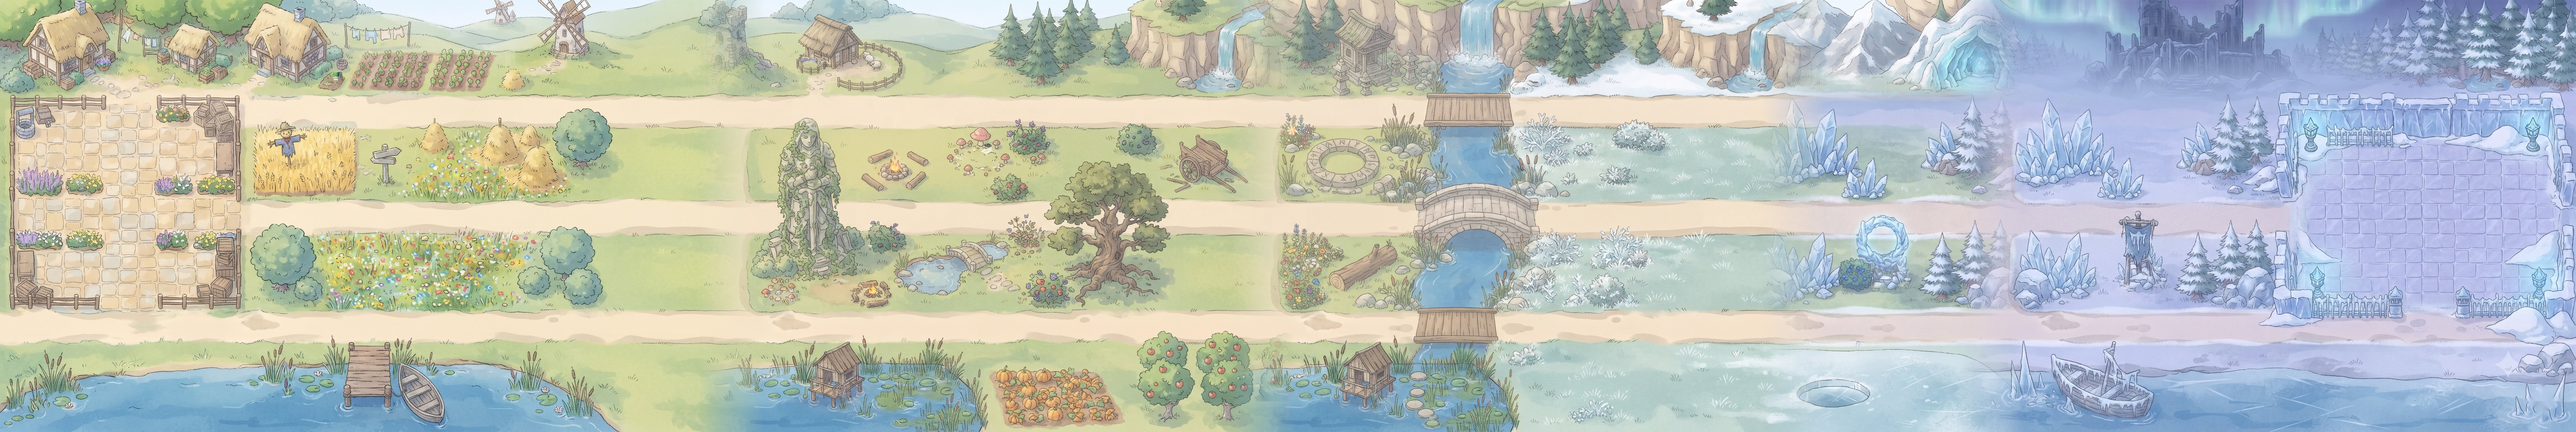
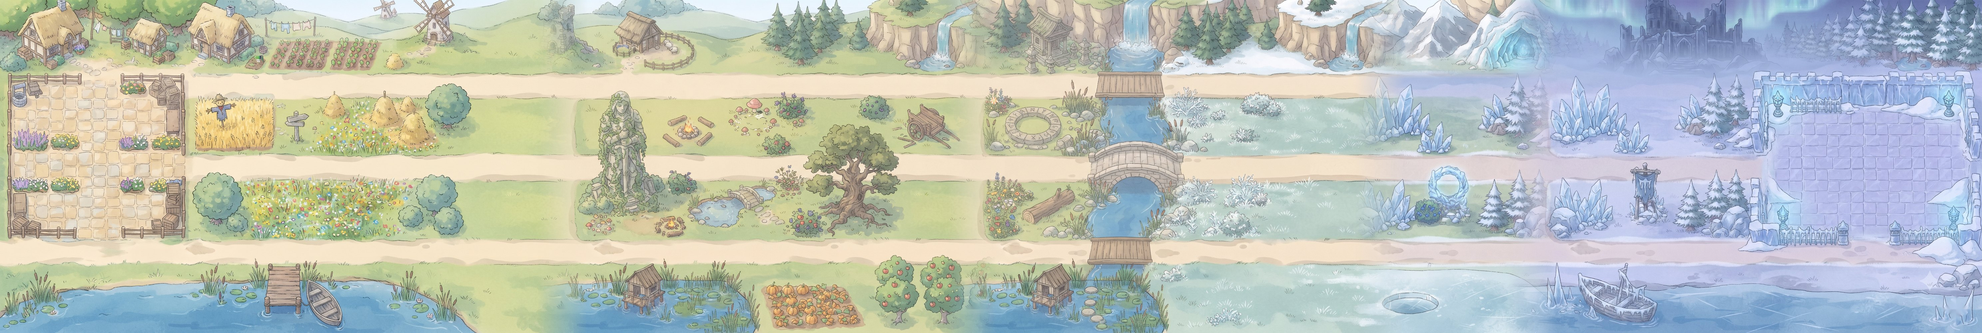
sprout v4.9: 맵을 고른 것 하나만 불러오고 나머지는 비움(휴대폰 메모리 부족으로 화면 깨짐 수정), 맵 크기 조정
Claude-Session: https://claude.ai/code/session_01D8ERGz5r4FPkuXoKDYhqRw

diff --git a/sprout/index.html b/sprout/index.html
@@ -3,7 +3,7 @@
 <head>
 <meta charset="utf-8">
 <meta name="viewport" content="width=device-width,initial-scale=1,viewport-fit=cover,user-scalable=no">
-<title>새싹 원정대 v4.8</title>
+<title>새싹 원정대 v4.9</title>
 <meta name="theme-color" content="#2f4a2c">
 <style>
 :root{--ink:#3a2f22;--cream:#fbf5e6}
@@ -67,11 +67,14 @@ addEventListener('resize',fit);fit();
 /* ---------- 이미지 ---------- */
 const IMG={};const NAMES=['sprout','hedgehog','fox','bunny','owl','frog','sheep','baker','sprite_e0','sprite_e1','sprite_e2','sprite_e3','boss','bg_forest','p_idle','p_run','p_swing','p_jump','p_cast','fx_leaf','fox_idle','fox_shoot','bunny_idle','bunny_heal','hedgehog_idle','hedgehog_atk','sheep_idle','sheep_atk','ground','plat','bg_village','bg_marsh','m_e0','m_e1','m_e2','m_e3','boss2','it_bread','it_clover','it_mush','it_star','it_twig','it_seed','it_chest','it_jar','owl_idle','owl_cast','frog_idle','frog_play','baker','rival','thief','castle_me','castle_foe','fg1','fg2','fg3','vfx_slash','vfx_heal','vfx_hit','vfx_lvup','vfx_star','vfx_leaf','fox_w1','fox_w2','fox_w3','fox_a','sheep_w1','sheep_w2','sheep_w3','sheep_a','bunny_w1','bunny_w2','bunny_w3','bunny_a','owl_w1','owl_w2','owl_w3','owl_a','dmg_n','dmg_c','board','chest','trophy','bg_duel','bg_wide','bg_desert','bg_blossom','bg_world','b_fox','b_sheep','b_bunny','b_hedgehog','b_owl','b_frog','b_ice','b_spire','tw_me','tw_foe','hb0','hb1','hb2','hb3','frost_h0','frost_h1','frost_h2','frost_h3','thief_h0','thief_h1','thief_h2','thief_h3','baker_h0','baker_h1','baker_h2','baker_h3','p_run2','p_k1','p_k2','p_k3','p_k4','p_k5','p_rc0','p_rc1','p_rc2','p_rc3','p_rc4','p_rc5','p_rc6','p_rc7','p_rt0','p_rt1','p_rt2','p_rt3','p_rt4','p_rt5','p_rt6','p_rt7','p_jc','p_jr','p_jf','p_jl','bg_canyon','castle_lava','castle_ghost','jg_dragon','jg_icedragon','bush','heal_fruit','lv_e0','lv_e1','lv_e2','lv_e3','lv_m0','lv_m1','lv_m2','lv_m3','gh_e0','gh_e1','gh_e2','gh_e3','gh_m0','gh_m1','gh_m2','gh_m3','hj_knight','hj_assassin','hj_lancer','hj_bear','hj_elf','hj_raccoon','hj_mage','hj_deer','tw_lv','b_lv1','b_lv2','sp_lv','tw_gh','b_gh1','b_gh2','sp_gh'];
 let loaded=0,loadedS=0;const NSM=[...new Set(NAMES.filter(n=>!n.startsWith('bg_')))],NBG=[...new Set(NAMES.filter(n=>n.startsWith('bg_')))];
-function ldImg(n){const i=IMG[n];if(i.src)return;i.src='img/'+n+(n.startsWith('bg_')?'.jpg':'.webp')+'?v=6'}
-[...NSM,...NBG].forEach(n=>{const i=new Image(),sm=!n.startsWith('bg_');i.onload=i.onerror=()=>{loaded++;if(sm){loadedS++;if(loadedS>=NSM.length)NBG.forEach(ldImg)}};IMG[n]=i;});
-NSM.forEach(ldImg);['bg_duel','bg_village'].forEach(ldImg);setTimeout(()=>NBG.forEach(ldImg),6000);
-function mapsReady(){let ok=loadedS>=NSM.length;const pm=DU&&DU.pendM,need=[pm==='rpg'?MAPS.findIndex(m=>m.only==='rpg'):pm==='lol'&&MAPS.findIndex(m=>m.only==='lol')>=0?MAPS.findIndex(m=>m.only==='lol'):(SV.map||0),0];MAPS.forEach((m,i)=>{ldImg(m.img);if(need.includes(i)&&!IMG[m.img].complete)ok=false});return ok}
-function loadPc(){let n=loadedS,t=NSM.length;for(const m of MAPS){t+=10;if(IMG[m.img].src&&IMG[m.img].complete)n+=10}return Math.min(99,Math.round(100*n/t))}
+function ldImg(n){const i=IMG[n];if(i.getAttribute('src'))return;i.src='img/'+n+(n.startsWith('bg_')?'.jpg':'.webp')+'?v=7'}
+[...NSM,...NBG].forEach(n=>{const i=new Image(),sm=!n.startsWith('bg_');i.onload=i.onerror=()=>{loaded++;if(sm){loadedS++;if(loadedS>=NSM.length)NBG0().forEach(ldImg)}};IMG[n]=i;});
+const MAPBG=['bg_wide','bg_desert','bg_blossom','bg_world','bg_canyon'],NBG0=()=>NBG.filter(n=>!MAPBG.includes(n));
+NSM.forEach(ldImg);['bg_duel','bg_village'].forEach(ldImg);setTimeout(()=>NBG0().forEach(ldImg),6000);
+function mapNeed(pm){const f=k=>MAPS.findIndex(m=>m.only===k);return pm==='rpg'&&f('rpg')>=0&&!SV.rpgOld?f('rpg'):pm==='lol'&&f('lol')>=0&&!(SV.map>0)?f('lol'):(MAPS[SV.map||0]&&!MAPS[SV.map||0].only?SV.map||0:0)}
+function mapsReady(){const D=DU,i=mapNeed(D&&D.pendM);ldImg(MAPS[i].img);if(D&&D.waitT>12)ldImg(MAPS[0].img);return loadedS>=NSM.length&&IMG[MAPS[i].img].complete}
+function mapFree(keep){MAPS.forEach((m,i)=>{const im=IMG[m.img];if(i!==keep&&im.getAttribute('src')){im.removeAttribute('src')}})}
+function loadPc(){const i=mapNeed(DU&&DU.pendM),im=IMG[MAPS[i].img];return Math.min(99,Math.round(100*(loadedS+(im.complete&&im.naturalWidth?30:0))/(NSM.length+30)))}
 
 /* ---------- 저장 (계속 쌓이는 것) ---------- */
 const SAVE_KEY='sprout_v1';
@@ -670,15 +673,15 @@ function palSpawn(k,i){const D=DU,h=D.H[1].u,x=h?h.x-30:homeX()+16,y=(h?h.y:home
 const TRES0=[[.214,.11],[.138,.9],[.392,.91],[.555,.11],[.72,.12],[.82,.9]];let CAMPS=CAMPS0,TRES=TRES0;
 function rpgHome(){const D=DU,h=D.H[1].u;if(!h||D.done)return;if(D.homeCd>0){D.banner={t:.8,txt:'귀환은 '+Math.ceil(D.homeCd)+'초 뒤에 쓸 수 있어요',small:1};return}D.homeCd=25;D.fx.push({ring:1,x:h.x,y:h.y-10,r:8,life:.5,col:'#bfe6ff'});h.x=homeX()+26;h.y=homeY();for(const u of D.units)if(u.pal&&u.hp>0){u.x=h.x-30;u.y=h.y+(u.palI?20:-20)}D.fx.push({ring:1,x:h.x,y:h.y-10,r:8,life:.6,col:'#bfe6ff'});D.banner={t:1.2,txt:'🏠 마을로 돌아왔어요 · 여기서 쉬면 회복해요',small:1};SFX.get()}
 
-function duelMode(m){const D=DU;D.pendM=m;if(m!=='story'&&!mapsReady()&&!(D.waitT>25)){D.wait=1;D.waitT=D.waitT||0;return}D.pendM=null;{const sm=SV.map||0;if(m!=='story'&&mapOk(sm)&&!MAPS[sm].only)D.map=sm}if(m==='story'){SV.dmode=m;save();D.modeSel=0;newRun('village');ST.intro=1;introSetup();scene='play';SFX.get();return}D.view=null;if(m==='fps'){SV.dmode='fps';m='cmd';D.view='back';SV.rpg=true}else SV.dmode=m;D.mode=m;D.modeSel=0;if(m==='hero')SV.rpg=true;else if(m==='luck')SV.rpg=false;D.intro=1.3;D.banner={t:1.3,txt:DMODE[m][0]+' '+DMODE[m][1]+' 시작!'};if(m==='grow'){D.H[-1].dead=1e9;const r=D.H[-1].u;if(r){D.units=D.units.filter(u=>u!==r);D.H[-1].u=null}D.foe.hp=D.foe.max=1e9;D.en=20;const h=D.H[1].u;if(h){D.units=D.units.filter(u=>u!==h);heroSpawn(1)}}D.z=m==='rpg'?1.14:m==='grow'?1:m==='maze'?1.22:m==='lol'?1.02:0;D.camY=null;if(m==='rpg')rpgSetup();if(m==='lol')lolSetup();if(m==='maze'){const r=D.H[-1].u;D.units=D.units.filter(u=>u!==r);D.H[-1].u=null;D.H[-1].dead=0;D.foe.hp=D.foe.max=1e9;D.maze=mazeGen(SV.mazeLv||0);const h=D.H[1].u;h.x=D.maze.cell*1.5;h.y=FY0+D.maze.cell*1.5;h.hp=h.hpMax=100;h.fx=1;SV.rpg=true;D.cam=0;D.banner={t:2.2,txt:'🌙 미로 '+(D.maze.lv+1)+'단계 · 별 3개를 모아 문으로!'}}save();SFX.lv()}
+function duelMode(m){const D=DU;D.pendM=m;if(m!=='story'&&!mapsReady()&&!(D.waitT>25)){D.wait=1;D.waitT=D.waitT||0;return}D.pendM=null;{const sm=SV.map||0;if(m!=='story'&&mapOk(sm)&&!MAPS[sm].only)D.map=sm}if(m!=='story')setTimeout(()=>{if(DU===D)mapFree(D.map)},50);if(m==='story'){SV.dmode=m;save();D.modeSel=0;newRun('village');ST.intro=1;introSetup();scene='play';SFX.get();return}D.view=null;if(m==='fps'){SV.dmode='fps';m='cmd';D.view='back';SV.rpg=true}else SV.dmode=m;D.mode=m;D.modeSel=0;if(m==='hero')SV.rpg=true;else if(m==='luck')SV.rpg=false;D.intro=1.3;D.banner={t:1.3,txt:DMODE[m][0]+' '+DMODE[m][1]+' 시작!'};if(m==='grow'){D.H[-1].dead=1e9;const r=D.H[-1].u;if(r){D.units=D.units.filter(u=>u!==r);D.H[-1].u=null}D.foe.hp=D.foe.max=1e9;D.en=20;const h=D.H[1].u;if(h){D.units=D.units.filter(u=>u!==h);heroSpawn(1)}}D.z=m==='rpg'?1.14:m==='grow'?1:m==='maze'?1.22:m==='lol'?1.02:0;D.camY=null;if(m==='rpg')rpgSetup();if(m==='lol')lolSetup();if(m==='maze'){const r=D.H[-1].u;D.units=D.units.filter(u=>u!==r);D.H[-1].u=null;D.H[-1].dead=0;D.foe.hp=D.foe.max=1e9;D.maze=mazeGen(SV.mazeLv||0);const h=D.H[1].u;h.x=D.maze.cell*1.5;h.y=FY0+D.maze.cell*1.5;h.hp=h.hpMax=100;h.fx=1;SV.rpg=true;D.cam=0;D.banner={t:2.2,txt:'🌙 미로 '+(D.maze.lv+1)+'단계 · 별 3개를 모아 문으로!'}}save();SFX.lv()}
 function duelSummon(){const D=DU;if(D.done||D.intro>0||D.pick)return;const c=5+Math.min(7,Math.floor((D.sumN||0)/2));if(D.en<c){D.banner={t:.8,txt:'소환에 금화 '+c+'개가 필요해요',small:1};D.noEn=.3;return}const k=D.deck[Math.floor(Math.random()*D.deck.length)],jack=Math.random()<.1;const same=D.blds.filter(b=>b.side>0&&b.k===k&&(b.lv||1)<3).sort((a,b)=>(a.lv||1)-(b.lv||1))[0];const free=[];for(let cc=0;cc<3;cc++)for(let r=0;r<3;r++)if(!D.blds.some(b=>b.side>0&&b.c===cc&&b.r===r))free.push([cc,r]);
  if(same&&(!free.length||Math.random()<.55)){D.en-=c;same.lv=(same.lv||1)+1;same.pop=.35;D.banner={t:1.2,txt:'✨ '+FR[k].n.split(' ').pop()+' 합체! '+same.lv+'단계',small:1};for(let i=0;i<14;i++)D.fx.push({x:same.x+(Math.random()-.5)*36,y:same.y-30,vx:(Math.random()-.5)*160,vy:-Math.random()*200,life:.7,col:'#ffe07a',r:3});SFX.lv()}
  else if(free.length){D.en-=c;const f=free[Math.floor(Math.random()*free.length)];duelBuild(1,k,f[0],f[1]);if(jack){const b=D.blds[D.blds.length-1];b.lv=2;D.banner={t:1.4,txt:'🎉 대박! '+FR[k].n.split(' ').pop()+' 2단계',small:1};SFX.lv()}else D.banner={t:.9,txt:'🎲 '+FR[k].n.split(' ').pop()+' 등장!',small:1}}
  else{D.banner={t:1,txt:'터가 가득 찼어요 · 건물을 눌러 강화하세요',small:1};return}D.sumN=(D.sumN||0)+1;D.built=(D.built||0)+1}
 function growWave(){const D=DU,w=D.wave||1,LY=LANEY(),m=1+w*.1,n=Math.min(14,3+Math.floor(w*.7)),pool=w>=6?['e0','e1','e2','e3','m0','m1','m2','m3']:w>=3?['e0','e1','e2','e3']:['e0','e1'];for(let i=0;i<n;i++){const k=pool[Math.floor(Math.random()*pool.length)],r=w>=8&&i%4===3?(i%8===3?0:2):1;duelSpawn(-1,k,{side:-1,x:DW()*.62+i*22,y:LY[r]+14,r});const u=D.units[D.units.length-1];u.hp=u.hpMax=u.hpMax*m*.8;u.dmg*=m*.8;u.spawnT=.3+i*.05}if(w%5===0){duelSpawn(-1,'e2',{side:-1,x:DW()*.62+n*22+40,y:LY[1]+14,r:1});const u=D.units[D.units.length-1];u.hp=u.hpMax=u.hpMax*m*7;u.dmg*=m*1.8;u.boss=1;u.rad*=1.7;D.banner={t:1.8,txt:'👑 '+w+'번째 물결 · 우두머리 등장!'}}else D.banner={t:1.2,txt:'🌊 '+w+'번째 물결',small:1}}
-function startDuel(){SV.duel=SV.duel||{win:0,lose:0};SV.land=SV.land||0;
+function startDuel(){ldImg(MAPS[MAPS[SV.map||0]&&!MAPS[SV.map||0].only?SV.map||0:0].img);SV.duel=SV.duel||{win:0,lose:0};SV.land=SV.land||0;
  const lg=Math.min(8,SV.duel.win);const cm=1600*(1+lg*.12);
- DU={t:0,lg,en:13,ee:10+lg,units:[],fx:[],shots:[],blds:[],sel:null,H:{1:{lv:1,xp:0,sk:{},dead:0,lane:1},[-1]:{lv:1+Math.floor(lg/3),xp:0,sk:{},dead:0,lane:1}},intro:1.3,modeSel:1,mode:'cmd',map:mapOk(SV.map||0)&&!MAPS[SV.map||0].only?(SV.map||0):0,banner:null,deck:duelDeck(),me:{hp:1600,max:1600},foe:{hp:cm,max:cm},done:null,T:0,aiT:2,
+ DU={t:0,lg,en:13,ee:10+lg,units:[],fx:[],shots:[],blds:[],sel:null,H:{1:{lv:1,xp:0,sk:{},dead:0,lane:1},[-1]:{lv:1+Math.floor(lg/3),xp:0,sk:{},dead:0,lane:1}},intro:1.3,modeSel:1,mode:'cmd',map:MAPS[SV.map||0]&&!MAPS[SV.map||0].only?(SV.map||0):0,banner:null,deck:duelDeck(),me:{hp:1600,max:1600},foe:{hp:cm,max:cm},done:null,T:0,aiT:2,
   pool:lg>=2?['e0','e1','e2','e3','m0','m1','m2','m3']:['e0','e1','e2','e3']};
  ST.dlg=null;scene='duel';SFX.get();heroSpawn(1);heroSpawn(-1);}
 /* 워3 캐슬파이트식: 내 진영 터에 건물을 지으면 유닛이 계속 나온다 */
@@ -760,7 +763,7 @@ function bkItems(items){const c=DU.bk,L=[];for(const it of items){if(it.cas){for
  for(const t of D.tres||[])if(!t.got&&t.x-c.x>150)em(t.x,t.y,'🎁',26);for(const d of D.drops||[])if(d.x-c.x>150)em(d.x,d.y,d.k==='gold'?'🪙':d.k==='pot'?'🧪':'🍎',20);if(D.chest&&D.chest.x-c.x>150)em(D.chest.x,D.chest.y,'🎁',28);if(D.mode==='rpg'&&npcX()-c.x>150)L.push({x:npcX(),y:npcY(),f:()=>{const im=IMG.baker;if(im&&im.naturalWidth)sprite(im,npcX(),npcY(),58,1,{})}});
  L.sort((a,b)=>b.x-a.x);for(const it of L){ctx.save();if(bkT(it.x,it.y)){if(it.clip){ctx.beginPath();ctx.rect(it.x-260,it.y-420,520,560);ctx.clip()}it.f()}ctx.restore()}
  for(const t of DU.tele||[]){if(t.hit)continue;ctx.save();if(bkT(t.x,t.y)){const k=1-Math.max(0,t.t)/t.T;ctx.fillStyle='rgba(255,90,70,'+(.15+.2*k)+')';ctx.strokeStyle='rgba(255,120,90,.9)';ctx.lineWidth=2;ctx.beginPath();ctx.ellipse(t.x,t.y,t.r,t.r*.66,0,0,7);ctx.fill();ctx.stroke();ctx.beginPath();ctx.ellipse(t.x,t.y,t.r*k,t.r*.66*k,0,0,7);ctx.stroke()}ctx.restore()}}
-function hiTiles(m){if(!m||!m.hi)return null;if(!m.hiI)m.hiI=[0,1,2,3].map(i=>{const im=new Image();im.src='img/'+m.hi+i+'.jpg?v=1';return im});return m.hiI.every(i=>i.naturalWidth)?m.hiI:null}
+function hiTiles(m){if(!m||!m.hi||isTouch)return null;if(!m.hiI)m.hiI=[0,1,2,3].map(i=>{const im=new Image();im.src='img/'+m.hi+i+'.jpg?v=1';return im});return m.hiI.every(i=>i.naturalWidth)?m.hiI:null}
 function drawHi(T,cam,camY){const dw=DW()/2,dh=WH()/2,vw=WVW(),vh=WVH();for(let t=0;t<4;t++){const tx=t%2,ty=t>>1,x0=Math.max(cam,tx*dw),x1=Math.min(cam+vw,(tx+1)*dw),y0=Math.max(camY,ty*dh),y1=Math.min(camY+vh,(ty+1)*dh);if(x1<=x0||y1<=y0)continue;const im=T[t],qx=im.naturalWidth/dw,qy=im.naturalHeight/dh;ctx.drawImage(im,(x0-tx*dw)*qx,(y0-ty*dh)*qy,(x1-x0)*qx,(y1-y0)*qy,(x0-cam)/vw*W-.5,FY0+(y0-camY)/vh*FH()-.5,(x1-x0)/vw*W+1,(y1-y0)/vh*FH()+1)}}
 const MOTES=[];function fieldFx(dt){const fh=FH();let g=ctx.createRadialGradient(W*.18,FY0,20,W*.18,FY0,W*.75);g.addColorStop(0,'rgba(255,246,205,.2)');g.addColorStop(1,'rgba(255,246,205,0)');ctx.fillStyle=g;ctx.fillRect(0,FY0,W,fh);g=ctx.createRadialGradient(W/2,FY0+fh/2,fh*.55,W/2,FY0+fh/2,W*.72);g.addColorStop(0,'rgba(20,30,40,0)');g.addColorStop(1,'rgba(20,30,40,.26)');ctx.fillStyle=g;ctx.fillRect(0,FY0,W,fh);
  if(!MOTES.length)for(let i=0;i<16;i++)MOTES.push({x:Math.random(),y:Math.random(),v:.004+Math.random()*.006,p:Math.random()*6.28,r:1.4+Math.random()*2});ctx.save();for(const m of MOTES){m.x+=m.v*dt;m.y-=m.v*.35*dt;m.p+=dt*.6;if(m.x>1.02){m.x=-.02;m.y=Math.random()}if(m.y<-.02)m.y=1.02;ctx.globalAlpha=.22+.2*Math.sin(m.p);ctx.fillStyle='#fffbe0';ctx.beginPath();ctx.arc(m.x*W,FY0+m.y*fh,m.r,0,7);ctx.fill()}ctx.restore()}
@@ -1039,8 +1042,8 @@ function drawDuel(dt){const D=DU;btns=[];
    ctx.font='bold 11px system-ui';ctx.fillStyle='#8a6a4a';ctx.fillText(q[3],x+cw/2,y+ch-34);if(k==='grow'&&SV.growBest){ctx.fillStyle='#5e8f4a';ctx.fillText('최고 '+SV.growBest+'번째 물결 · 씨앗 '+(SV.seeds||0),x+cw/2,y+ch-16)}if(k==='rpg'&&SV.rpgBest){ctx.fillStyle='#5e8f4a';ctx.fillText('최고 기록 '+Math.floor(SV.rpgBest/60)+'분 '+SV.rpgBest%60+'초',x+cw/2,y+ch-16)}
    if(last){ctx.fillStyle='#e0a53a';roundRect(x+cw-62,y-9,58,20,10);ctx.fill();ctx.font='900 11px system-ui';ctx.fillStyle='#fff';ctx.fillText('지난번',x+cw-33,y+5)}});
   {const hs=['sprout','frost','thief','baker','knight','assassin','lancer','bear','elf','raccoon','mage','deer'].concat((SV.friends||[]).filter(k=>HEROES[k]&&!HEROES[k].hu)),gp=hs.length>8?5:10,sz=Math.min(62,Math.floor((W-250)/hs.length)-gp),tw2=hs.length*(sz+gp)-gp,hx0=W/2-tw2/2,hy=H-86;ctx.fillStyle='rgba(40,26,12,.94)';ctx.fillRect(0,H-104,W,104);ctx.fillStyle='#e0a53a';ctx.fillRect(0,H-104,W,2);ctx.font='900 12px system-ui';ctx.fillStyle='#ffe9a8';ctx.textAlign='right';ctx.fillText('영웅 고르기 ▸',hx0-14,hy+36);ctx.textAlign='center';hs.forEach((k,i)=>{const x=hx0+i*(sz+gp),sel=heroKey()===k,im=k==='sprout'?IMG.p_idle:HEROES[k].sj?IMG['hj_'+k]:HEROES[k].hu?(IMG[k+'_h0']&&IMG[k+'_h0'].naturalWidth?IMG[k+'_h0']:IMG[k==='frost'?'rival':k]):(IMG[k+'_w1']&&IMG[k+'_w1'].naturalWidth?IMG[k+'_w1']:IMG[FR[k].img]);btns.push({x:x-3,y:hy-6,w:sz+6,h:sz+22,cb:()=>{SV.hero=k;save();SFX.get();const D2=DU,h=D2.H[1].u;if(h){D2.units=D2.units.filter(u=>u!==h);heroSpawn(1)}}});ctx.fillStyle=sel?'#fff6d6':'rgba(255,250,240,.82)';roundRect(x,hy,sz,sz,12);ctx.fill();ctx.strokeStyle=sel?'#e0a53a':'#6b4a2c';ctx.lineWidth=sel?4:1.5;roundRect(x,hy,sz,sz,12);ctx.stroke();if(im&&im.naturalWidth){ctx.save();ctx.beginPath();roundRect(x+2,hy+2,sz-4,sz-4,10);ctx.clip();const h2=sz*.92,w2=im.naturalWidth*h2/im.naturalHeight;ctx.drawImage(im,x+sz/2-w2/2,hy+sz-h2-1,w2,h2);ctx.restore()}ctx.fillStyle=sel?'#b06a00':'#4a2c14';roundRect(x+sz-26,hy-7,30,16,8);ctx.fill();ctx.font='900 10px system-ui';ctx.fillStyle='#fff';ctx.fillText('Lv.'+HM(k).lv,x+sz-11,hy+5);ctx.font='900 10.5px system-ui';ctx.fillStyle=sel?'#ffe07a':'#f3e6cc';ctx.fillText(HEROES[k].n,x+sz/2,hy+sz+13)});{const k=heroKey();ctx.textAlign='left';ctx.font='bold 11px system-ui';ctx.fillStyle='#ffe9a8';ctx.fillText(HEROES[k].role,hx0+tw2+14,hy+30);ctx.fillText('체력 '+HEROES[k].hp+' · 공격 '+HEROES[k].dmg,hx0+tw2+14,hy+46)}ctx.textAlign='center'}
-  {const n=MAPS.filter((m,i)=>mapOk(i)&&!m.only).length,bw=330,bx=W/2-bw/2,by=y+ch+12;if(n>1){ctx.fillStyle='rgba(50,32,14,.9)';roundRect(bx,by,bw,34,17);ctx.fill();ctx.strokeStyle='#e0a53a';ctx.lineWidth=2;roundRect(bx,by,bw,34,17);ctx.stroke();ctx.font='900 14px system-ui';ctx.fillStyle='#fff2c0';ctx.fillText('🗺 맵: '+MAPS[D.map].n+'  ▸ 바꾸기',W/2,by+23);btns.push({x:bx,y:by-4,w:bw,h:42,cb:()=>{let i=DU.map;do{i=(i+1)%MAPS.length}while(!mapOk(i)||MAPS[i].only);DU.map=i;SV.map=i;DU.cam=0;save();SFX.get()}})}}
-  {const ml=SV.mst||0,bx=W/2-200,by=FY0+2;ctx.font='900 12px system-ui';ctx.fillStyle='#ffe9a8';ctx.textAlign='left';}ctx.font='bold 13px system-ui';ctx.fillStyle='#fff2c0';if(MAPS.filter((m,i)=>mapOk(i)).length<2)ctx.fillText('세 가지를 다 해 보고 제일 재미있는 걸로 키워 가요',W/2,y+ch+34);ctx.textAlign='left';return}
+  {const n=MAPS.filter((m,i)=>!m.only).length,bw=330,bx=W/2-bw/2,by=y+ch+12;if(n>1){ctx.fillStyle='rgba(50,32,14,.9)';roundRect(bx,by,bw,34,17);ctx.fill();ctx.strokeStyle='#e0a53a';ctx.lineWidth=2;roundRect(bx,by,bw,34,17);ctx.stroke();ctx.font='900 14px system-ui';ctx.fillStyle='#fff2c0';ctx.fillText('🗺 맵: '+MAPS[D.map].n+'  ▸ 바꾸기',W/2,by+23);btns.push({x:bx,y:by-4,w:bw,h:42,cb:()=>{let i=DU.map;do{i=(i+1)%MAPS.length}while(MAPS[i].only);ldImg(MAPS[i].img);DU.map=i;SV.map=i;DU.cam=0;save();SFX.get()}})}}
+  {const ml=SV.mst||0,bx=W/2-200,by=FY0+2;ctx.font='900 12px system-ui';ctx.fillStyle='#ffe9a8';ctx.textAlign='left';}ctx.font='bold 13px system-ui';ctx.fillStyle='#fff2c0';if(MAPS.length<2)ctx.fillText('세 가지를 다 해 보고 제일 재미있는 걸로 키워 가요',W/2,y+ch+34);ctx.textAlign='left';return}
  if(D.done&&D.T>1.5){const R=D.done;ctx.fillStyle='rgba(30,40,25,.45)';ctx.fillRect(0,0,W,H);panel(W/2-240,90,480,320);btns=[];ctx.textAlign='center';
   ctx.font='900 34px system-ui';ctx.fillStyle=R.win?'#5e8f4a':'#a85a5a';ctx.fillText(R.mz?(R.win?'🌙 미로 '+(R.lv+1)+'단계 탈출!':'별똥별에 쓰러졌어요'):R.rpgm?'🧭 모험 완료! 서리를 물리쳤어요':R.grow?'🌱 '+R.wave+'번째 물결까지 막았어요':R.win?'대전 승리!':'아쉽게 졌어요',W/2,148);
   ctx.font='bold 16px system-ui';ctx.fillStyle='#3a2f22';ctx.fillText('🪙 +'+R.gold+(R.win?'   ·   🏰 영토 +1칸 (총 '+SV.land+'칸)':''),W/2,192);
@@ -1331,7 +1334,7 @@ function drawTitle(dt){
  button(W-232,H-58,104,40,'📖 도감',()=>{scene='book'},'#cfe7b8');
  button(W-120,H-58,104,40,SV.mute?'🔇 음악':'🎵 음악',()=>{SV.mute=!SV.mute;save();if(SV.mute)bgmStop();else bgmStart()},'#e7e0f6');
  btns.unshift({x:0,y:0,w:W,h:H,cb:startGame});
- ctx.fillStyle='rgba(58,41,30,.7)';ctx.font='bold 12px system-ui';ctx.fillText('v4.8 · 고화질 시험판 · 효과음 Kenney (CC0)',14,H-14);
+ ctx.fillStyle='rgba(58,41,30,.7)';ctx.font='bold 12px system-ui';ctx.fillText('v4.9 · 가벼운 고화질 시험판 · 효과음 Kenney (CC0)',14,H-14);
  if(loaded<NAMES.length){ctx.fillStyle='#fff';ctx.font='bold 13px system-ui';ctx.fillText('그림 불러오는 중… '+loaded+'/'+NAMES.length,14,24)}
  // 꽃잎 (천천히)
  for(let i=0;i<22;i++){const sp=18+(i%5)*6,x=((i*137+titleT*sp*1.4)%(W+80))-40,y=((i*89+titleT*(sp+10))%(H+60))-30;ctx.save();ctx.translate(x,y);ctx.rotate(titleT*.8+i);ctx.fillStyle=i%3?'rgba(255,214,228,.75)':'rgba(255,240,200,.7)';ctx.beginPath();ctx.ellipse(0,0,6,3,0,0,7);ctx.fill();ctx.restore()}
